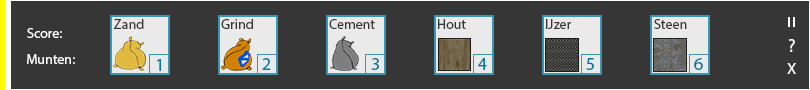
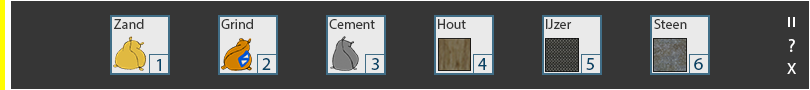
Score en aantal coins nu in menubalk

diff --git a/FloodWorld.java b/FloodWorld.java
@@ -9,7 +9,7 @@ public class FloodWorld extends World {
     public FloodWorld()  {
         super(80, 80, 10);
 
-        setPaintOrder(GameOverScreen.class, MenuBar.class, Player.class, Bag.class, Water.class, Floodbank.class);
+        setPaintOrder(GameOverScreen.class, Counter.class, Coins.class, MenuBar.class, Player.class, Bag.class, Water.class, Floodbank.class);
 
         for(int i=0; i<=80; i++) {
             for(int j=0; j<=30; j++) {
@@ -34,10 +34,10 @@ public class FloodWorld extends World {
         addObject(player = new Citizen(), 40, 67);
 
         scoreCounter = new Counter("Score: ");
-        addObject(scoreCounter, 10, 2);
+        addObject(scoreCounter, 6, 74);
         
         coinCounter = new Coins("Coins: ");
-        addObject(scoreCounter, 70, 2);
+        addObject(coinCounter, 6, 76);
         coinCounter.add(10);
     }
 

diff --git a/Counter.java b/Counter.java
@@ -4,7 +4,7 @@ import java.awt.Color;
 import java.awt.Graphics;
 
 public class Counter extends Actor {
-    private static final Color textColor = new Color(0, 0, 0);
+    private static final Color textColor = new Color(255, 255, 255);
 
     private int value = 0;
     private int target = 0;

diff --git a/Coins.java b/Coins.java
@@ -4,7 +4,7 @@ import java.awt.Color;
 import java.awt.Graphics;
 
 public class Coins extends Actor {
-    private static final Color textColor = new Color(0, 0, 0);
+    private static final Color textColor = new Color(255, 255, 255);
 
     private int value = 0;
     private int target = 0;
